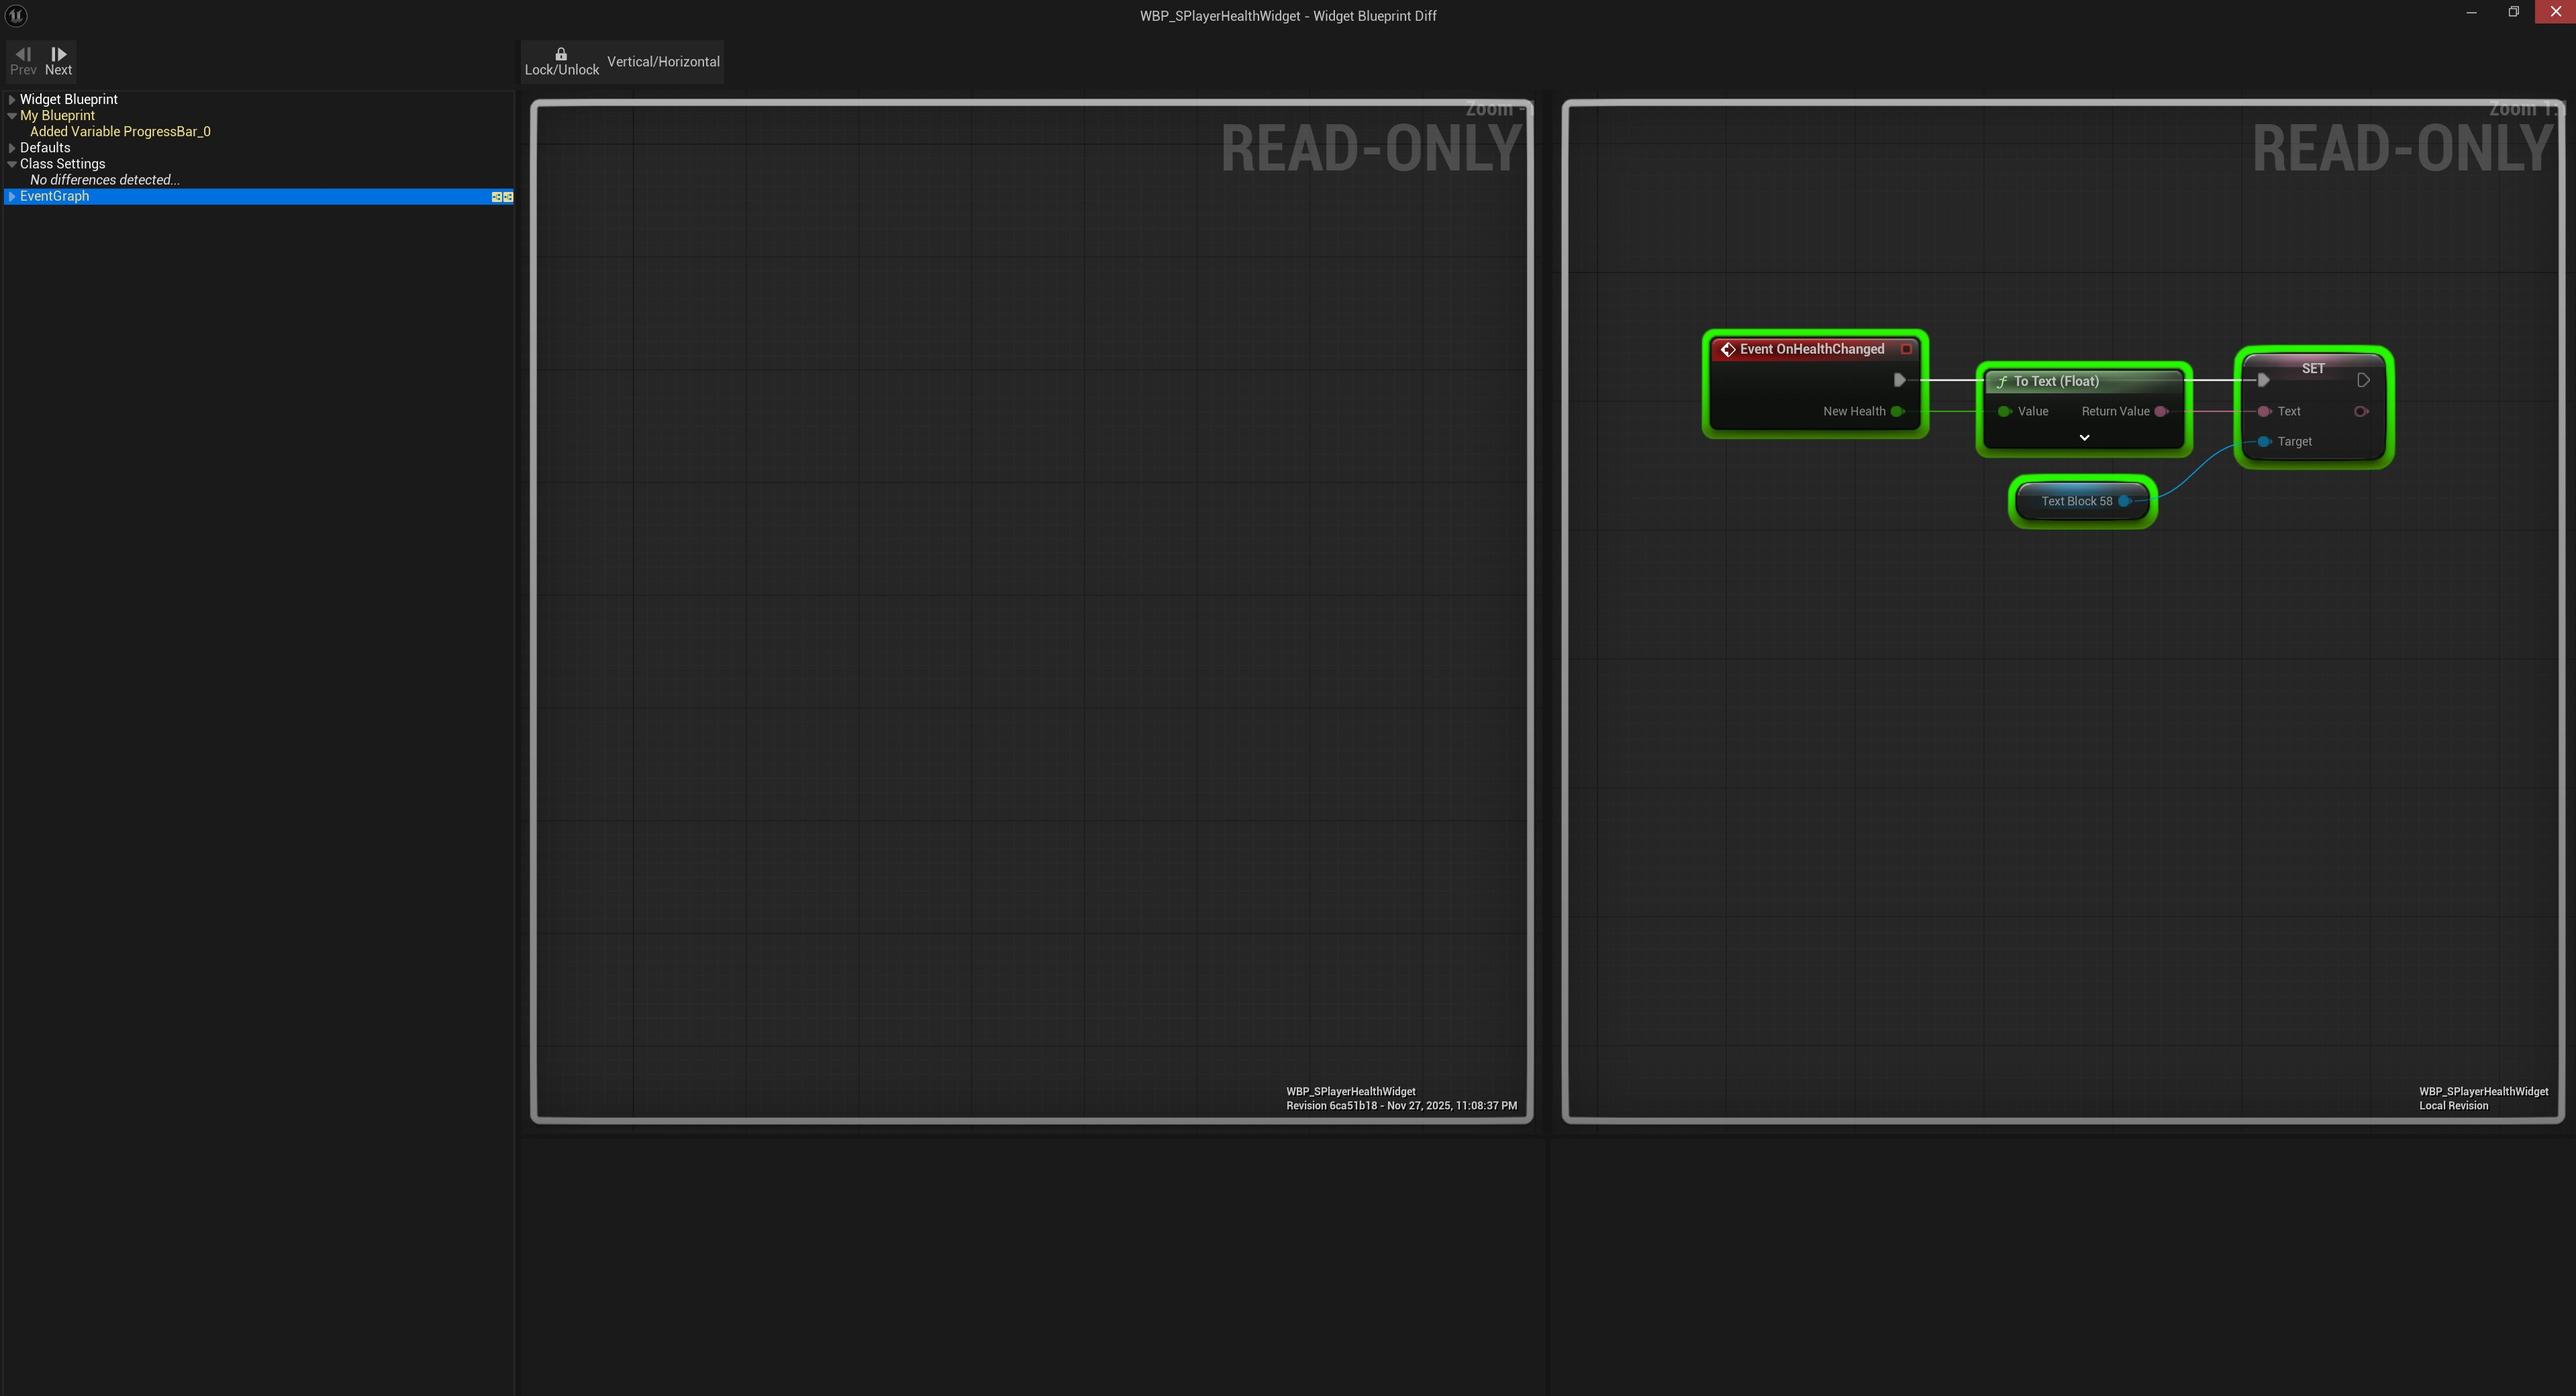
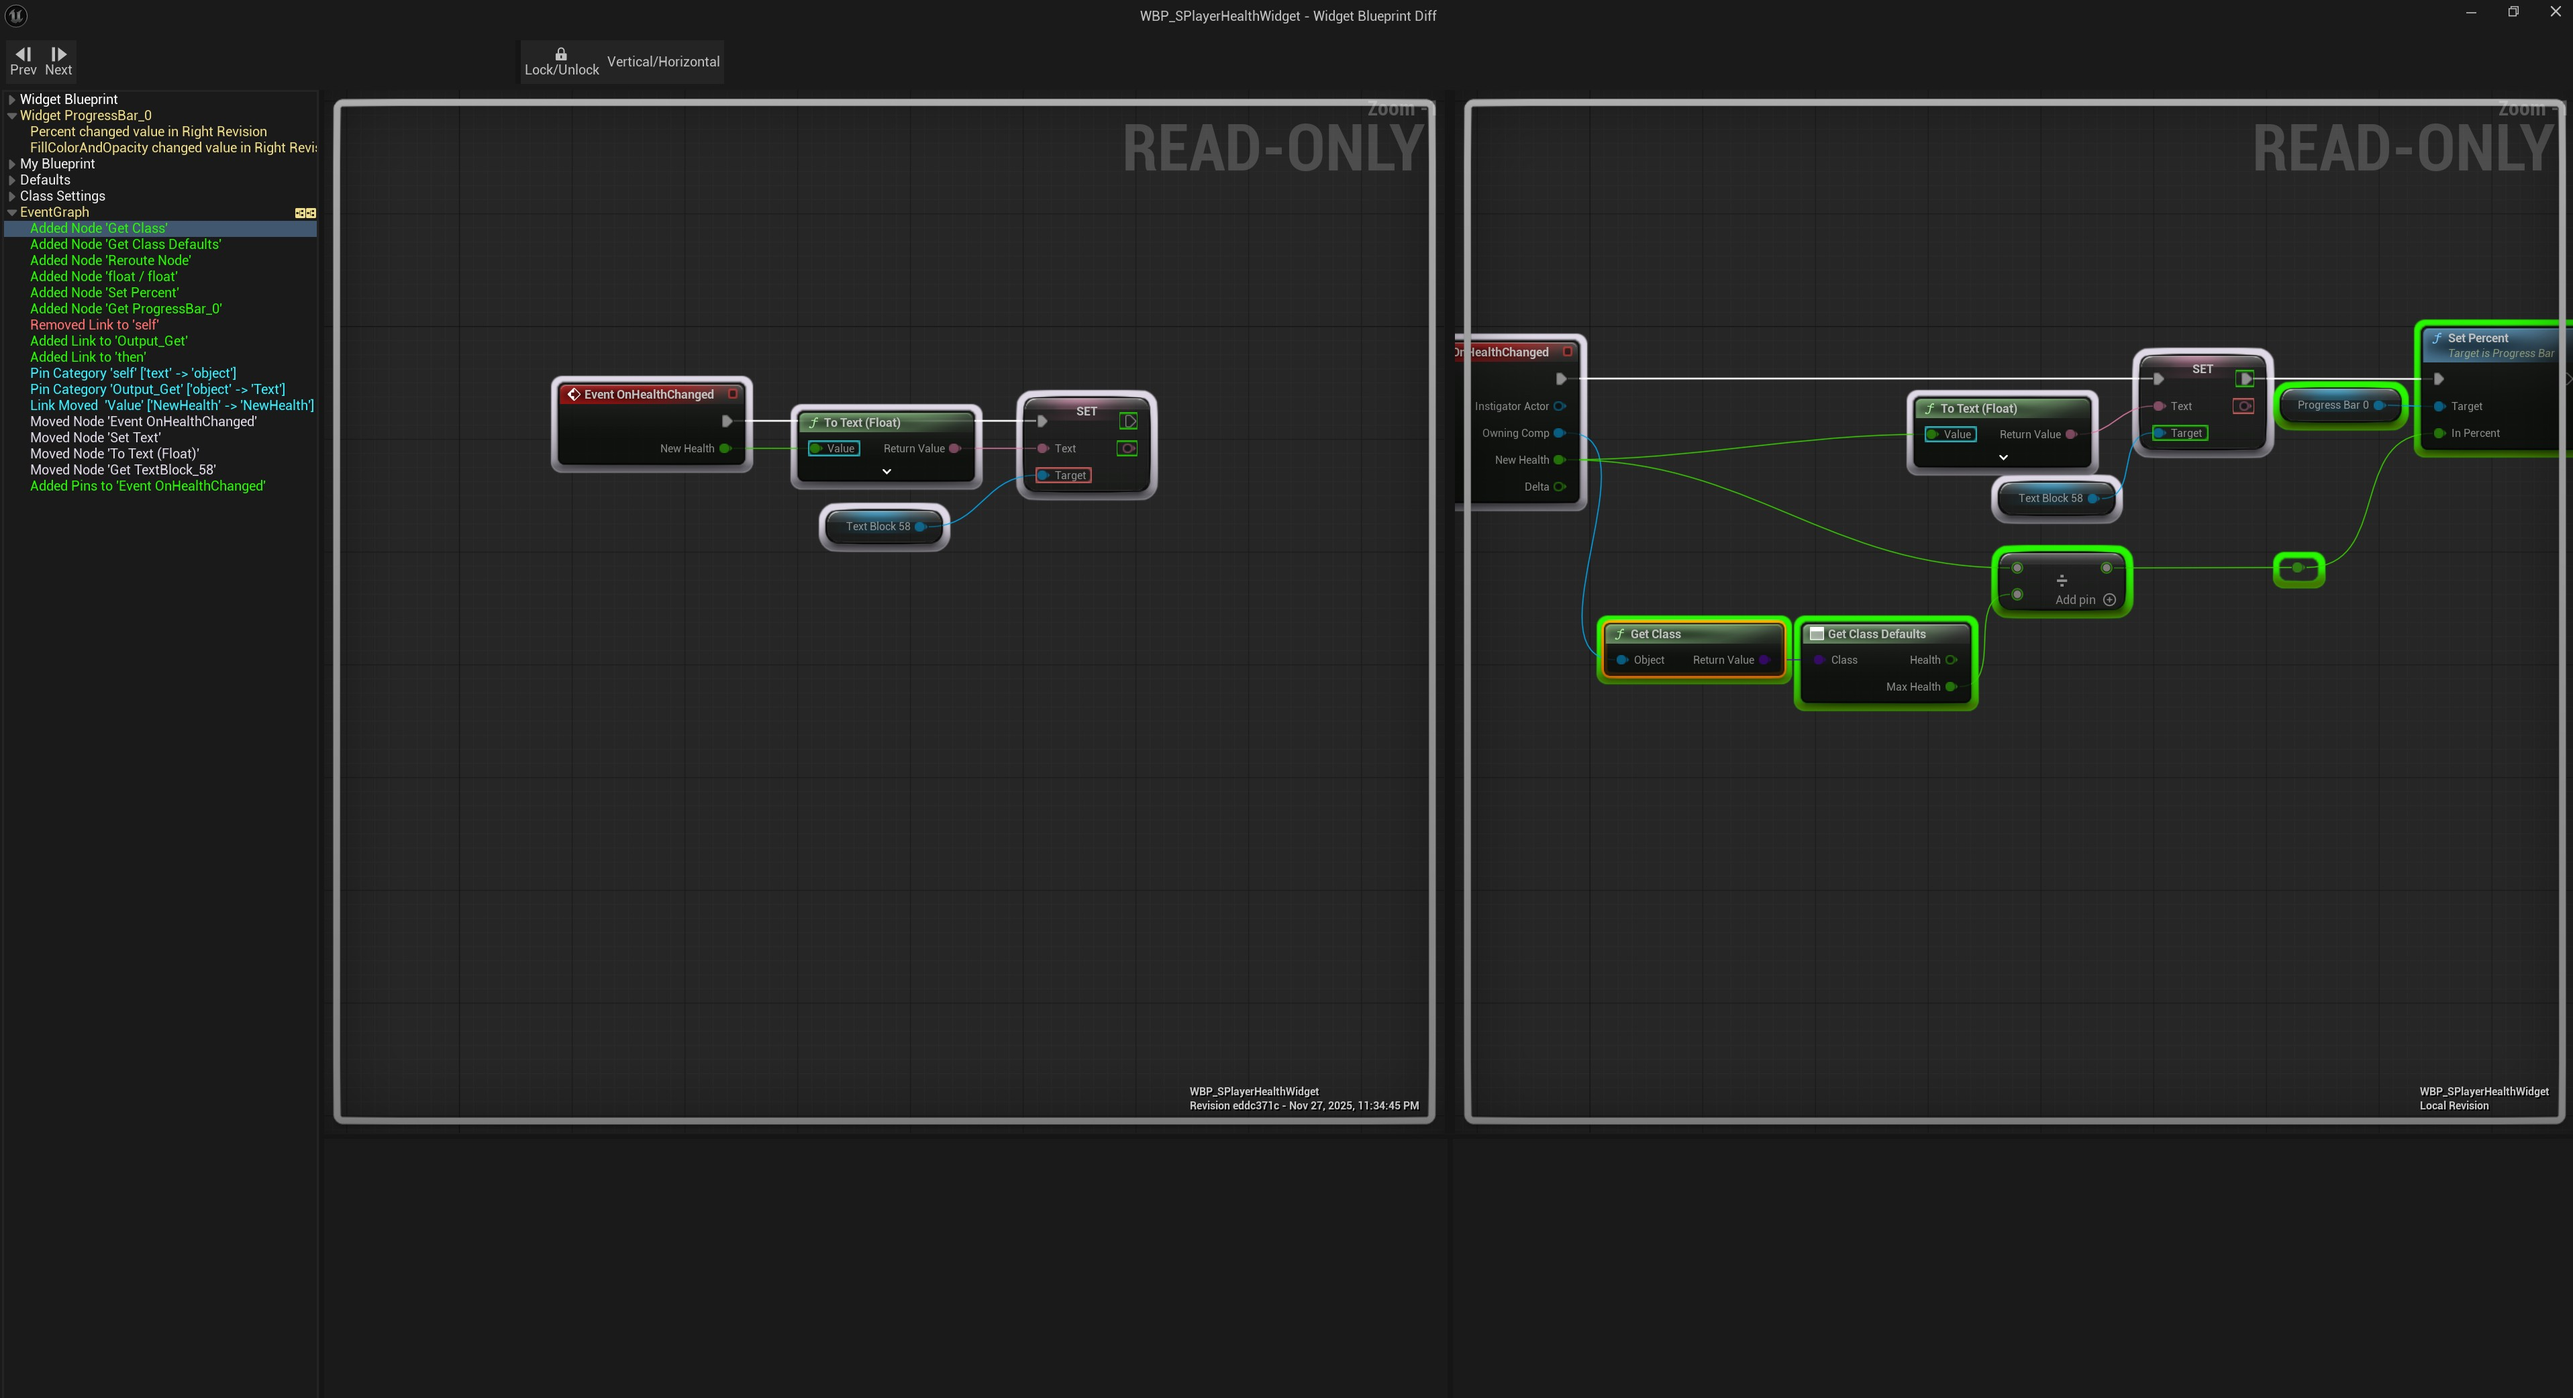
[Add] Getting max health from Attributes defaults

diff --git a/Source/TomLoomanCourse/Public/SPlayerHealthBar.h b/Source/TomLoomanCourse/Public/SPlayerHealthBar.h
@@ -6,6 +6,7 @@
 #include "Blueprint/UserWidget.h"
 #include "SPlayerHealthBar.generated.h"
 
+class USAttributesComponent;
 /**
  * 
  */
@@ -16,9 +17,10 @@ class TOMLOOMANCOURSE_API USPlayerHealthBar : public UUserWidget
 
 public:
 	UFUNCTION(BlueprintCallable, Category = "HealthWidget")
-	void SetHealth(float InHealth);
+	void SetHealth(AActor* InstigatorActor, USAttributesComponent* OwningComp,  float InHealth, float Delta);
+	
 	UFUNCTION(BlueprintImplementableEvent, Category = "HealthWidget")
-	void OnHealthChanged(float NewHealth);
+	void OnHealthChanged(AActor* InstigatorActor, USAttributesComponent* OwningComp, const float NewHealth, float Delta);
 
 	UFUNCTION(BlueprintCallable, Category = "HealthWidget	")
 	float GetHealth() const;

diff --git a/Source/TomLoomanCourse/Public/SAttributesComponent.h b/Source/TomLoomanCourse/Public/SAttributesComponent.h
@@ -6,7 +6,7 @@
 #include "Components/ActorComponent.h"
 #include "SAttributesComponent.generated.h"
 
-DECLARE_DYNAMIC_MULTICAST_DELEGATE_OneParam(FOnHealthChanged, float, InHealth);
+DECLARE_DYNAMIC_MULTICAST_DELEGATE_FourParams(FOnHealthChanged, AActor*, InstigatorActor, USAttributesComponent*, OwningComp,  float, InHealth, float, Delta);
 UCLASS(ClassGroup=(Custom), meta=(BlueprintSpawnableComponent))
 class TOMLOOMANCOURSE_API USAttributesComponent : public UActorComponent
 {

diff --git a/Source/TomLoomanCourse/Private/SPlayerHealthBar.cpp b/Source/TomLoomanCourse/Private/SPlayerHealthBar.cpp
@@ -3,10 +3,10 @@
 
 #include "SPlayerHealthBar.h"
 
-void USPlayerHealthBar::SetHealth(const float InHealth)
+void USPlayerHealthBar::SetHealth(AActor* InstigatorActor, USAttributesComponent* OwningComp, const float InHealth, float Delta)
 {
 	Health = InHealth;
-	OnHealthChanged(Health);
+	OnHealthChanged(InstigatorActor, OwningComp, InHealth, Delta);
 	UE_LOG(LogTemp, Warning, TEXT("Health changed to %f"), Health);
 }
 

diff --git a/Source/TomLoomanCourse/Private/SAttributesComponent.cpp b/Source/TomLoomanCourse/Private/SAttributesComponent.cpp
@@ -38,7 +38,7 @@ bool USAttributesComponent::ApplyHealthChange(float Delta)
 	{
 		Health += Delta;
 	}
-	OnHealthChanged.Broadcast(Health);
+	OnHealthChanged.Broadcast(nullptr, this, Health, Delta);
 	return true;
 }
 
